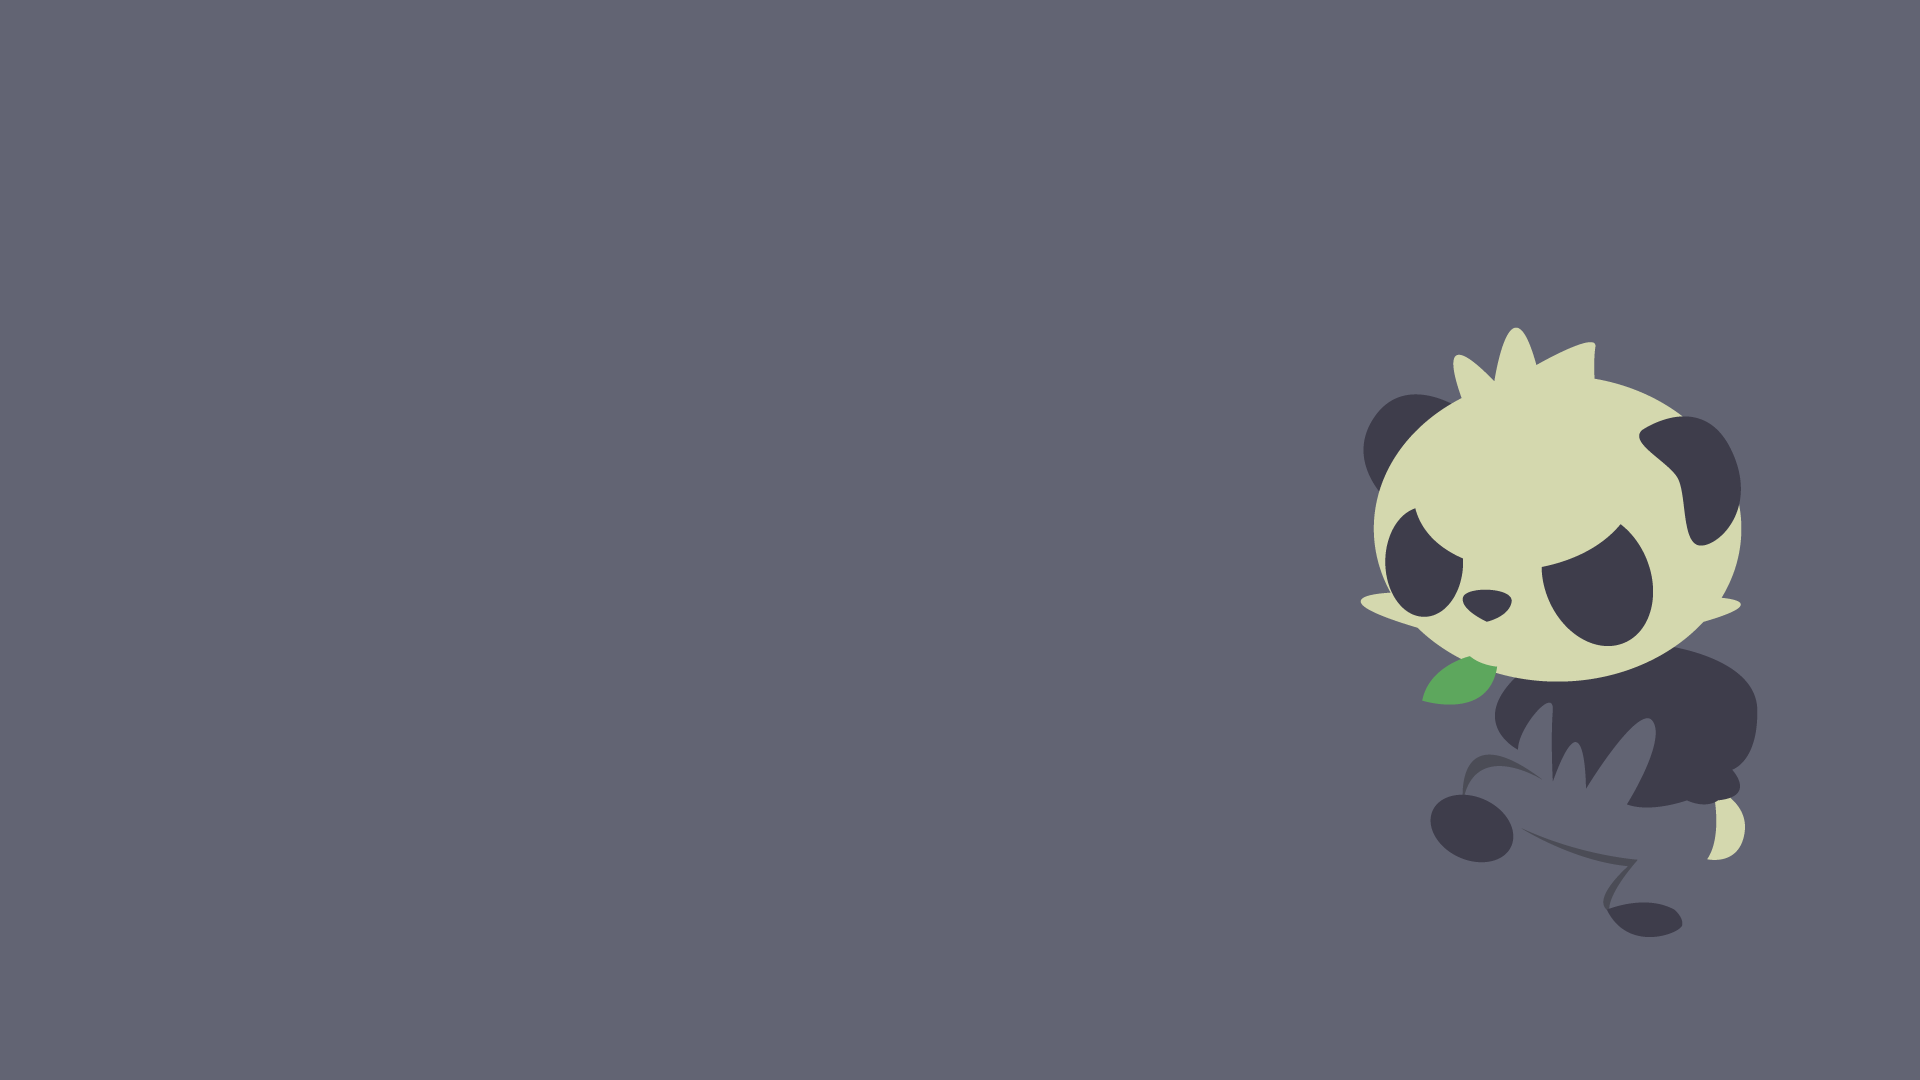
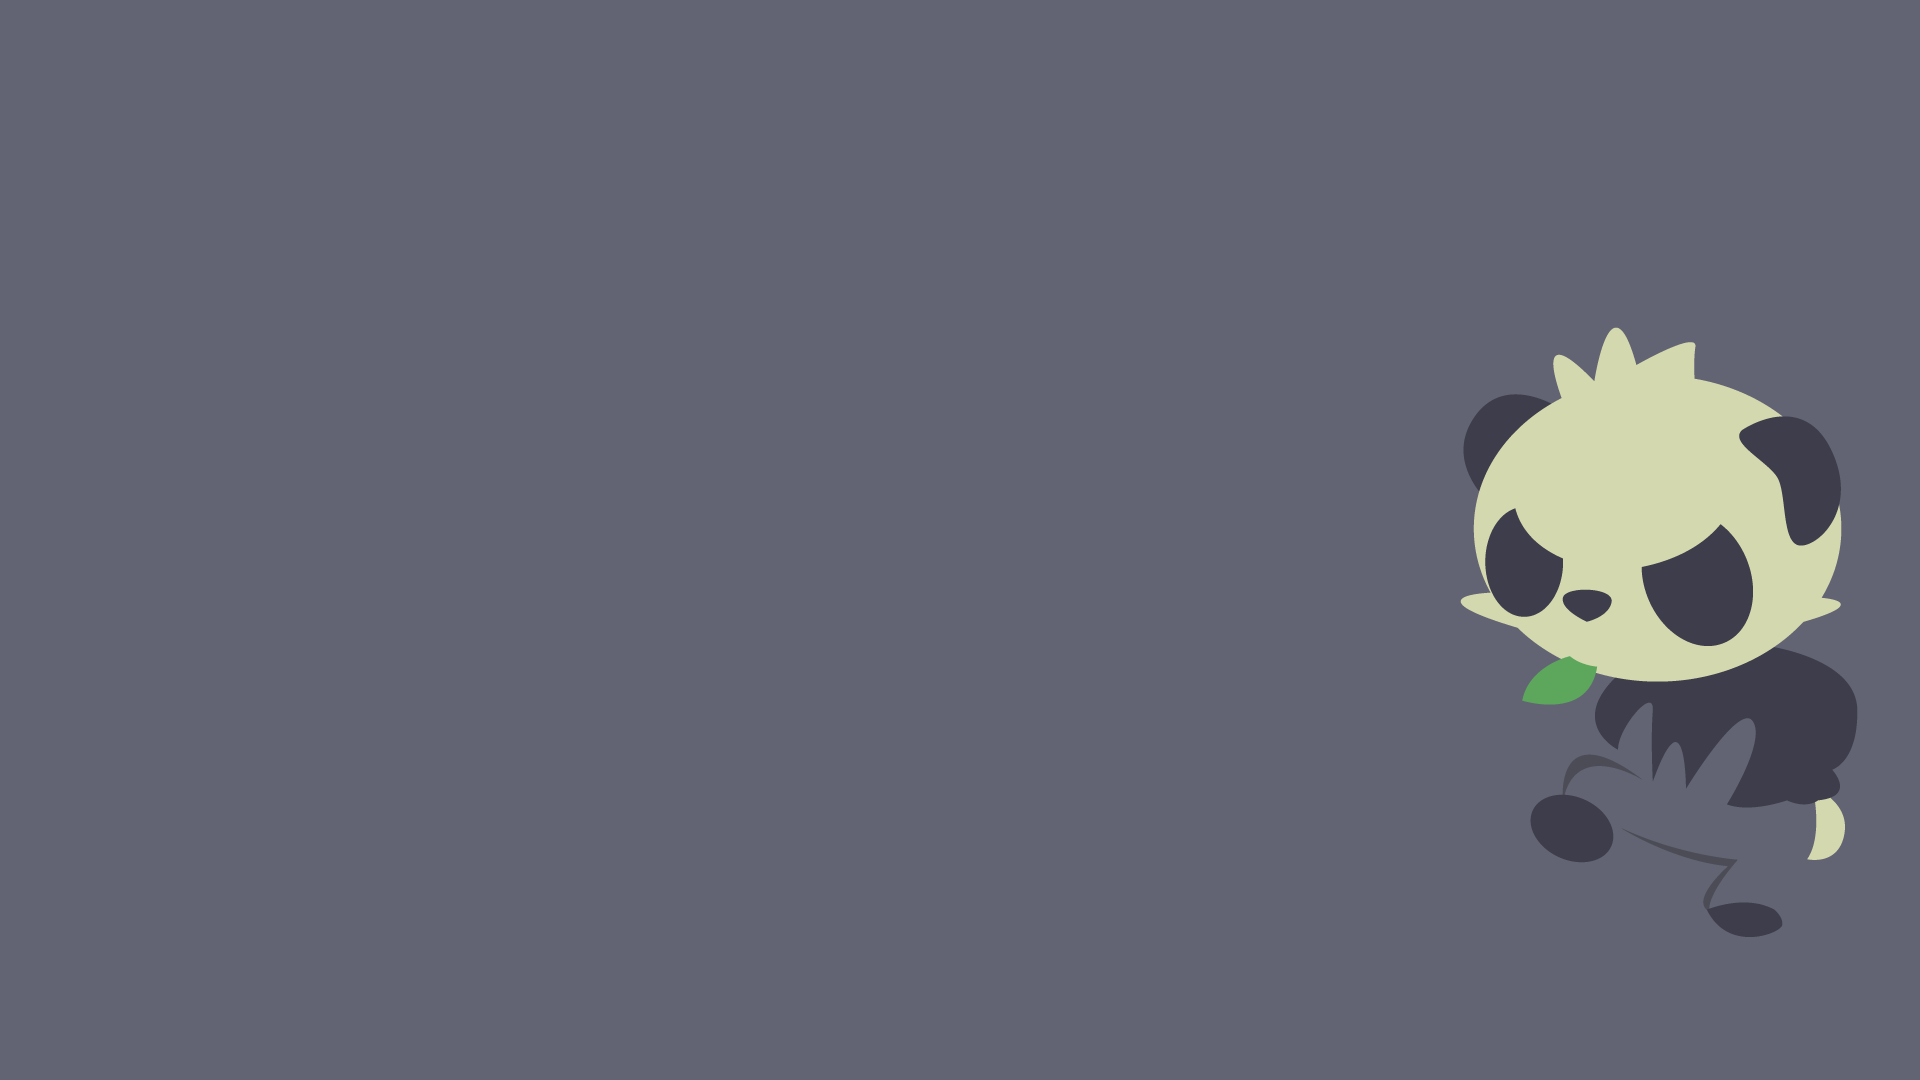
Added footer, removed unused function, updated href name

Changed region(s): [[0.6875, 0.3056, 0.9688, 0.8861]]

diff --git a/index.html b/index.html
@@ -19,7 +19,7 @@
 
             <nav>
                 <a href="#pokemonDetailsSection">Pokémon Details</a>
-                <a href="#pokemonSection">Pokémon by Two Types</a>
+                <a href="#twoTypesSection">Pokémon by Two Types</a>
                 <a href="#moveSection">Search Moves</a>
             </nav>
         </div>
@@ -51,7 +51,7 @@
             <div id="pokemonDetails" class="results" aria-live="polite"></div>
         </section>
 
-        <section id="pokemonSection" class="section">
+        <section id="twoTypesSection" class="section">
             <h2>Pokémon by Two Types</h2>
 
             <p>Choose two types to find Pokémon that have both.</p>
@@ -97,5 +97,6 @@
             <div id="moveResults" class="results" aria-live="polite"></div>
         </section>
     </main>
+    <footer>Pokémon Explorer | Information provided by PokéAPI</footer>
 </body>
 </html>

diff --git a/javascript/main.js b/javascript/main.js
@@ -47,19 +47,6 @@ pokemonTypes.forEach(function (type) {
     type2.appendChild(option2);
 });
 
-
-function renderPokemonList(pokemon) {
-    const list = document.createElement("ul");
-
-    pokemon.forEach(name => {
-        const item = document.createElement("li");
-        item.textContent = name;
-        list.appendChild(item);
-    });
-
-    return list;
-}
-
 function makePokemonCardClickable(card, pokemonName) {
     card.style.cursor = "pointer";
 

diff --git a/css/style.css b/css/style.css
@@ -12,6 +12,8 @@ body {
     background-repeat: no-repeat;
     background-attachment: fixed;
     color: #222;
+    display: flex;
+    flex-direction: column;
 }
 
 .site-header {
@@ -26,6 +28,14 @@ body {
     align-items: center;
     justify-content: space-between;
     gap: 20px;
+}
+
+footer {
+    width: 100%;
+    background: white;
+    padding: 15px 30px;
+    text-align: center;
+    color: #737162;
 }
 
 .logo {
